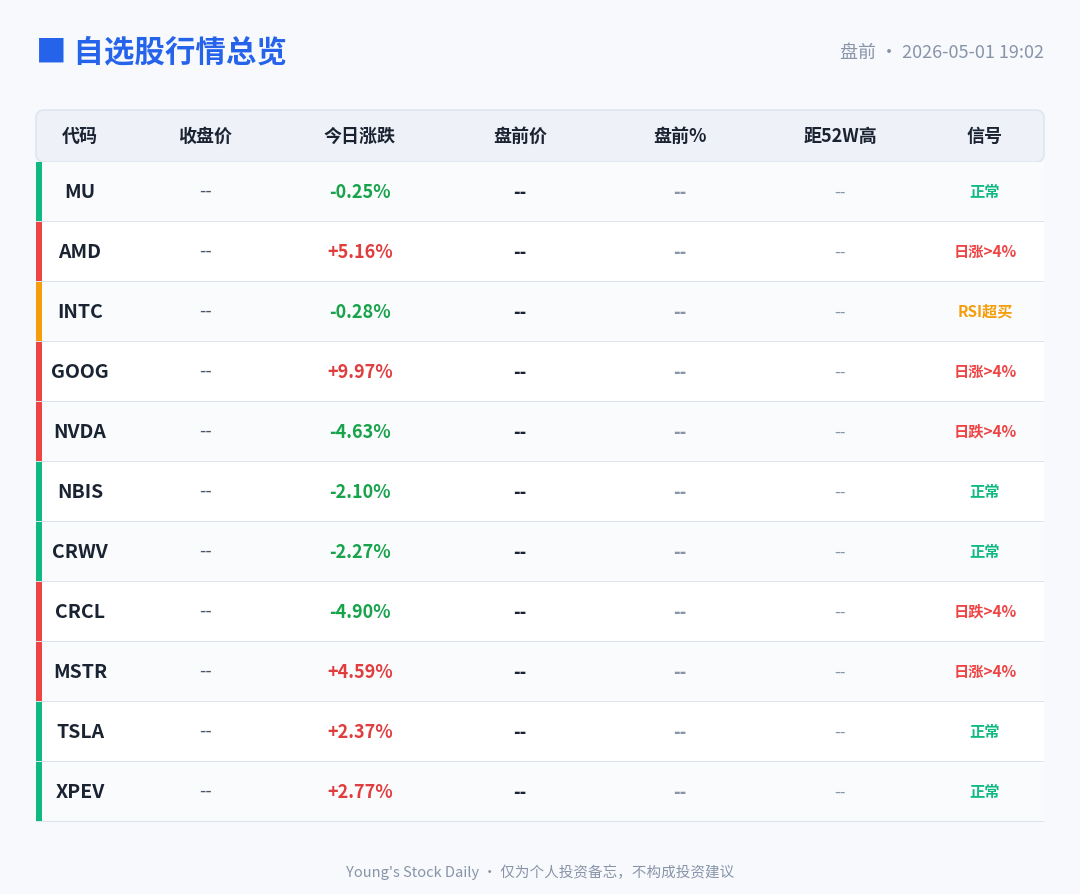
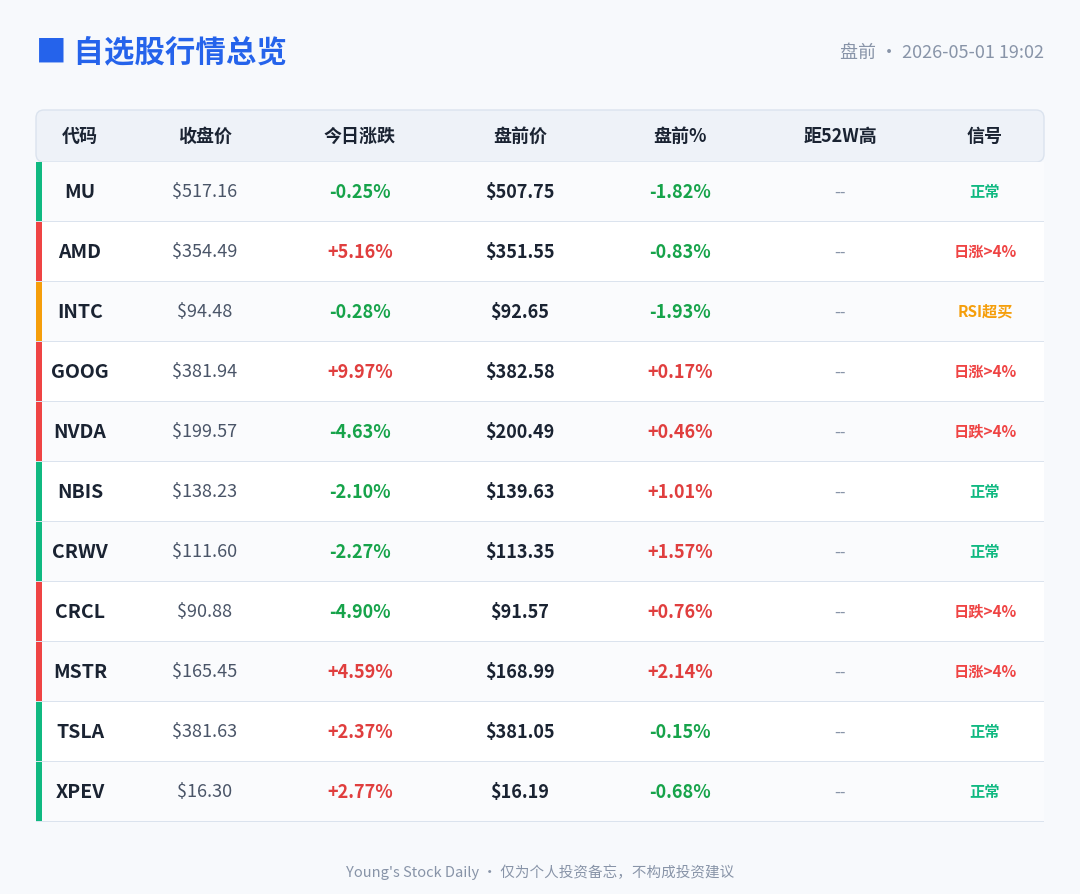
fix: render_overview.py 兼容新旧字段名 + 重新渲染今日图片
根因：定时任务构造 overview_data.json 时用了 fetch_quotes.py 返回的原始字段名
(close_price/extended_price/extended_pct)，但 render_overview.py 期望的是简化
字段名 (close/premarket/premarket_pct/dist_52w_high)，导致除 pct_1d 外全部
显示为 '--'。

修复：
1. render_overview.py v4：每个字段同时兼容两种名称
   - close → close_price
   - premarket → extended_price
   - premarket_pct → extended_pct
   - dist_52w_high → dist_from_52w_high_pct
   - session → session_label
   - 支持盘中(realtime)列标签
2. SKILL.md 步骤3 新增 overview_data.json 完整字段 schema
   - 明确列出 7 个必含字段 + 严禁遗漏警告
3. 重新渲染 images/daily_20260501_1902.png（135KB，数据完整）

diff --git a/skills/stock-and-web3/scripts/render_overview.py b/skills/stock-and-web3/scripts/render_overview.py
@@ -1,24 +1,27 @@
 #!/usr/bin/env python3
 # -*- coding: utf-8 -*-
 """
-render_overview.py · v3
-数据驱动生成【自选股行情总览】亮色竖屏 PNG，手机微信友好。
+render_overview.py · v4
+数据驱动生成【自选股行情总览】亮色竖屏 PNG，手机微信友好。红涨绿跌。
 
 用法：
   python3 render_overview.py --input overview_data.json --output images/daily_YYYYMMDD_HHMM.png
 
 输入 JSON 格式（由 fetch_quotes.py 生成后简单包装）：
 {
-  "title": "自选股行情总览",            // 可选，默认"自选股行情总览"
-  "generated_at": "2026-04-30 10:40",
-  "session": "盘后 After-Hours",        // 盘前/盘后/常规
+  "title": "自选股行情总览",
+  "generated_at": "2026-05-01 19:02",
+  "session": "盘前",                      // 或 "盘后"/"盘中"
+  "session_label": "盘前",                // 也接受此字段
   "stocks": [
     {
       "symbol": "MU", "name": "美光科技",
-      "close": 518.46, "pct_1d": 2.81,
-      "premarket": 523.16, "premarket_pct": 0.91,   // 可为 null
-      "dist_52w_high": -2.4, "volume_ratio": 1.19,
-      "signals": ["盘后>4%(+4.24%)"]                // 数组
+      "close_price": 517.16,              // 或 "close": 517.16（兼容旧名）
+      "pct_1d": -0.25,
+      "extended_price": 507.75,           // 或 "premarket": 507.75（兼容旧名）
+      "extended_pct": -1.82,              // 或 "premarket_pct": -1.82（兼容旧名）
+      "dist_from_52w_high_pct": -3.42,    // 或 "dist_52w_high": -3.42（兼容旧名）
+      "signals": ["日跌>4%"]              // 数组
     }, ...
   ]
 }
@@ -102,12 +105,13 @@ def render(data, out_path):
         print('[warn] stocks 数组为空，无数据可渲染')
         # 仍然生成一个空图避免报错
 
-    session = data.get('session', '')
+    session = data.get('session', '') or data.get('session_label', '')
     gen_at = data.get('generated_at', '')
 
-    # 判断是盘前还是盘后（决定列名）
+    # 判断是盘前还是盘后还是盘中（决定列名）
     is_afterhours = '盘后' in session or 'After' in session
-    ext_label = '盘后' if is_afterhours else '盘前'
+    is_realtime = '盘中' in session or 'realtime' in session.lower()
+    ext_label = '盘后' if is_afterhours else ('盘中' if is_realtime else '盘前')
 
     # ====== 布局参数 ======
     W = 1080
@@ -185,8 +189,8 @@ def render(data, out_path):
                 fontsize=14, fontweight='bold', color=C['text'],
                 va='center', ha='center')
 
-        # 2 收盘价
-        close = s.get('close')
+        # 2 收盘价（兼容 close / close_price 两种字段名）
+        close = s.get('close') or s.get('close_price')
         ax.text(cols_x[1], cy, f'${close:.2f}' if close else '--',
                 fontsize=13, color=C['sub'], va='center', ha='center')
 
@@ -196,20 +200,20 @@ def render(data, out_path):
                 fontsize=13, fontweight='bold', color=color_pct(pct_1d),
                 va='center', ha='center')
 
-        # 4 盘前/盘后价
-        ext_price = s.get('premarket')
+        # 4 盘前/盘后价（兼容 premarket / extended_price）
+        ext_price = s.get('premarket') or s.get('extended_price')
         ax.text(cols_x[3], cy, f'${ext_price:.2f}' if ext_price else '--',
                 fontsize=13, fontweight='bold', color=C['text'],
                 va='center', ha='center')
 
-        # 5 盘前/盘后%
-        ext_pct = s.get('premarket_pct')
+        # 5 盘前/盘后%（兼容 premarket_pct / extended_pct）
+        ext_pct = s.get('premarket_pct') or s.get('extended_pct')
         ax.text(cols_x[4], cy, fmt_pct(ext_pct),
                 fontsize=13, fontweight='bold', color=color_pct(ext_pct),
                 va='center', ha='center')
 
-        # 6 距52W高
-        d52 = s.get('dist_52w_high')
+        # 6 距52W高（兼容 dist_52w_high / dist_from_52w_high_pct）
+        d52 = s.get('dist_52w_high') if s.get('dist_52w_high') is not None else s.get('dist_from_52w_high_pct')
         if d52 is not None and d52 > -0.5:
             d52_text, d52_color = '★新高', C['fire']
         elif d52 is not None:

diff --git a/skills/stock-and-web3/SKILL.md b/skills/stock-and-web3/SKILL.md
@@ -185,6 +185,27 @@ python3 /data/workspace/.agent/skills/stock-and-web3/scripts/render_overview.py 
   --output /data/workspace/YoungStockDaily/images/daily_YYYYMMDD_HHMM.png
 ```
 
+**⚠ /tmp/overview_data.json 每只股必须包含以下字段（缺一不可！）：**
+```json
+{
+  "generated_at": "2026-05-01 19:02",
+  "session_label": "盘前",
+  "stocks": [
+    {
+      "symbol": "MU",
+      "name": "美光科技",
+      "close_price": 517.16,
+      "pct_1d": -0.25,
+      "extended_price": 507.75,
+      "extended_pct": -1.82,
+      "dist_from_52w_high_pct": -3.42,
+      "signals": ["日跌>4%"]
+    }
+  ]
+}
+```
+**🚫 严禁遗漏 `close_price` / `extended_price` / `extended_pct` / `dist_from_52w_high_pct` 中的任何一个字段！否则图片中这些列会显示为 `--`！**
+
 图片标题固定为"自选股行情总览"，宽 1080px，高度随行数动态。亮色 `#f7f9fc` 背景。**红涨绿跌**。
 
 ### 步骤 4：拉取 Web3 日报
